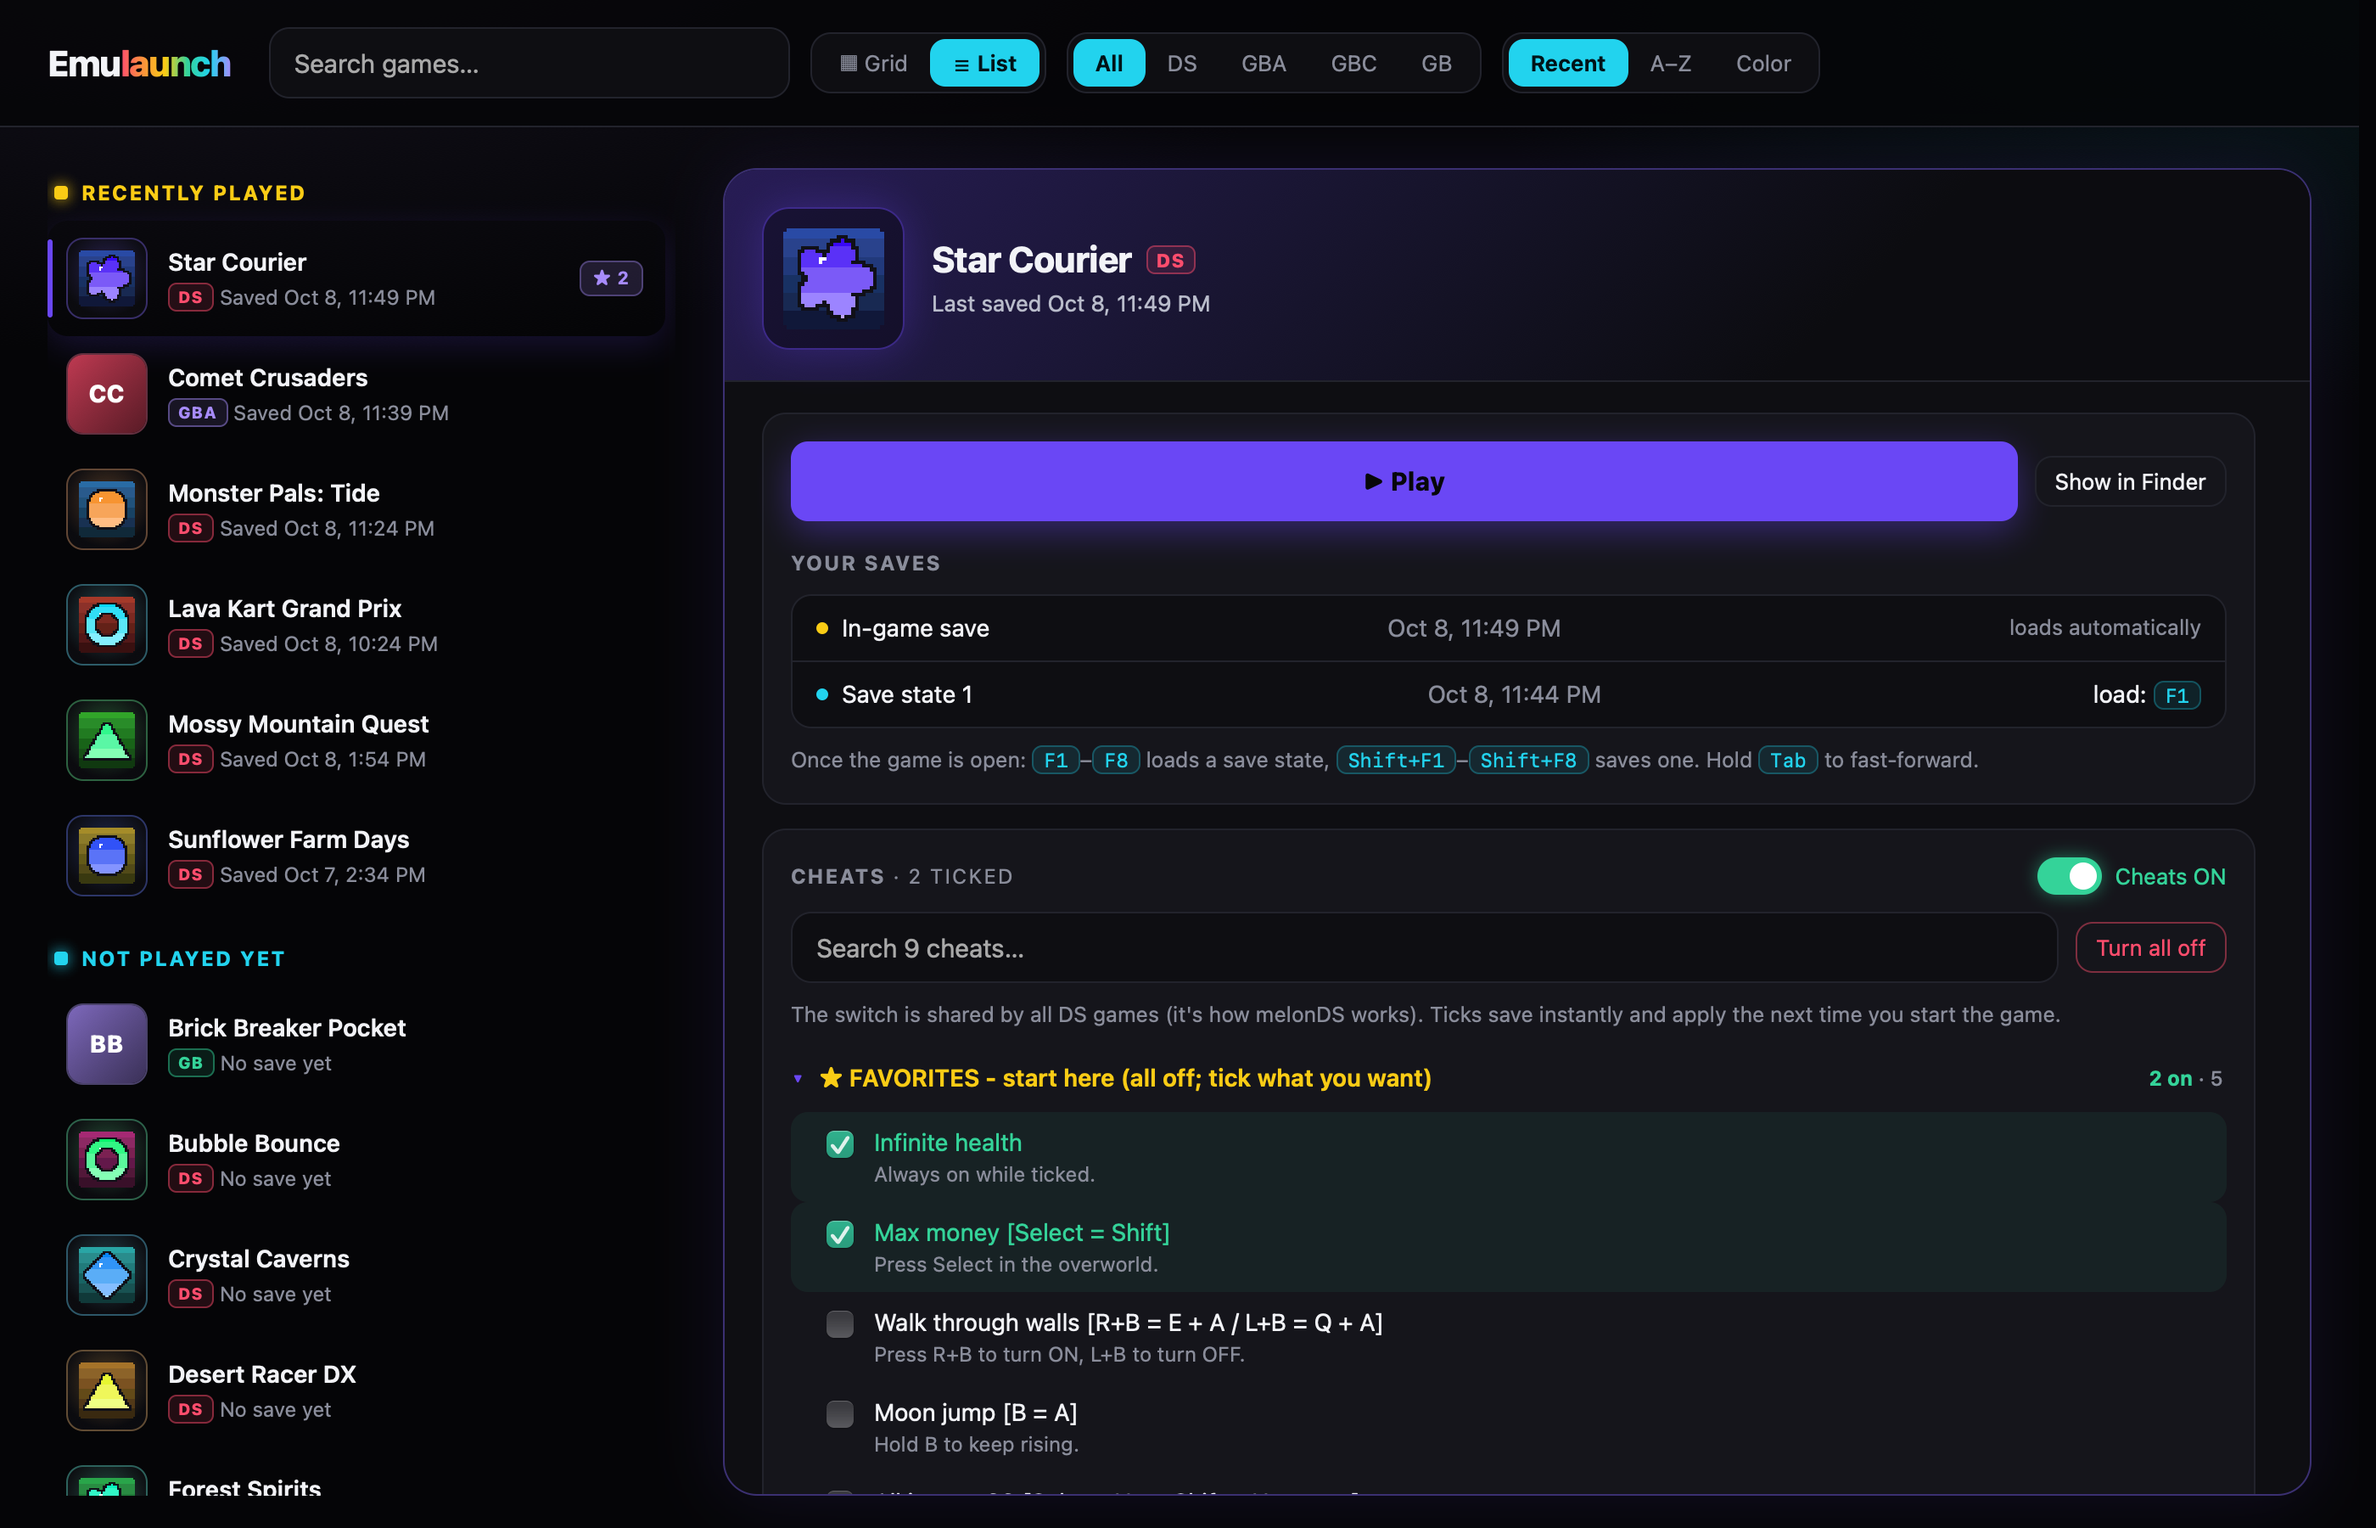
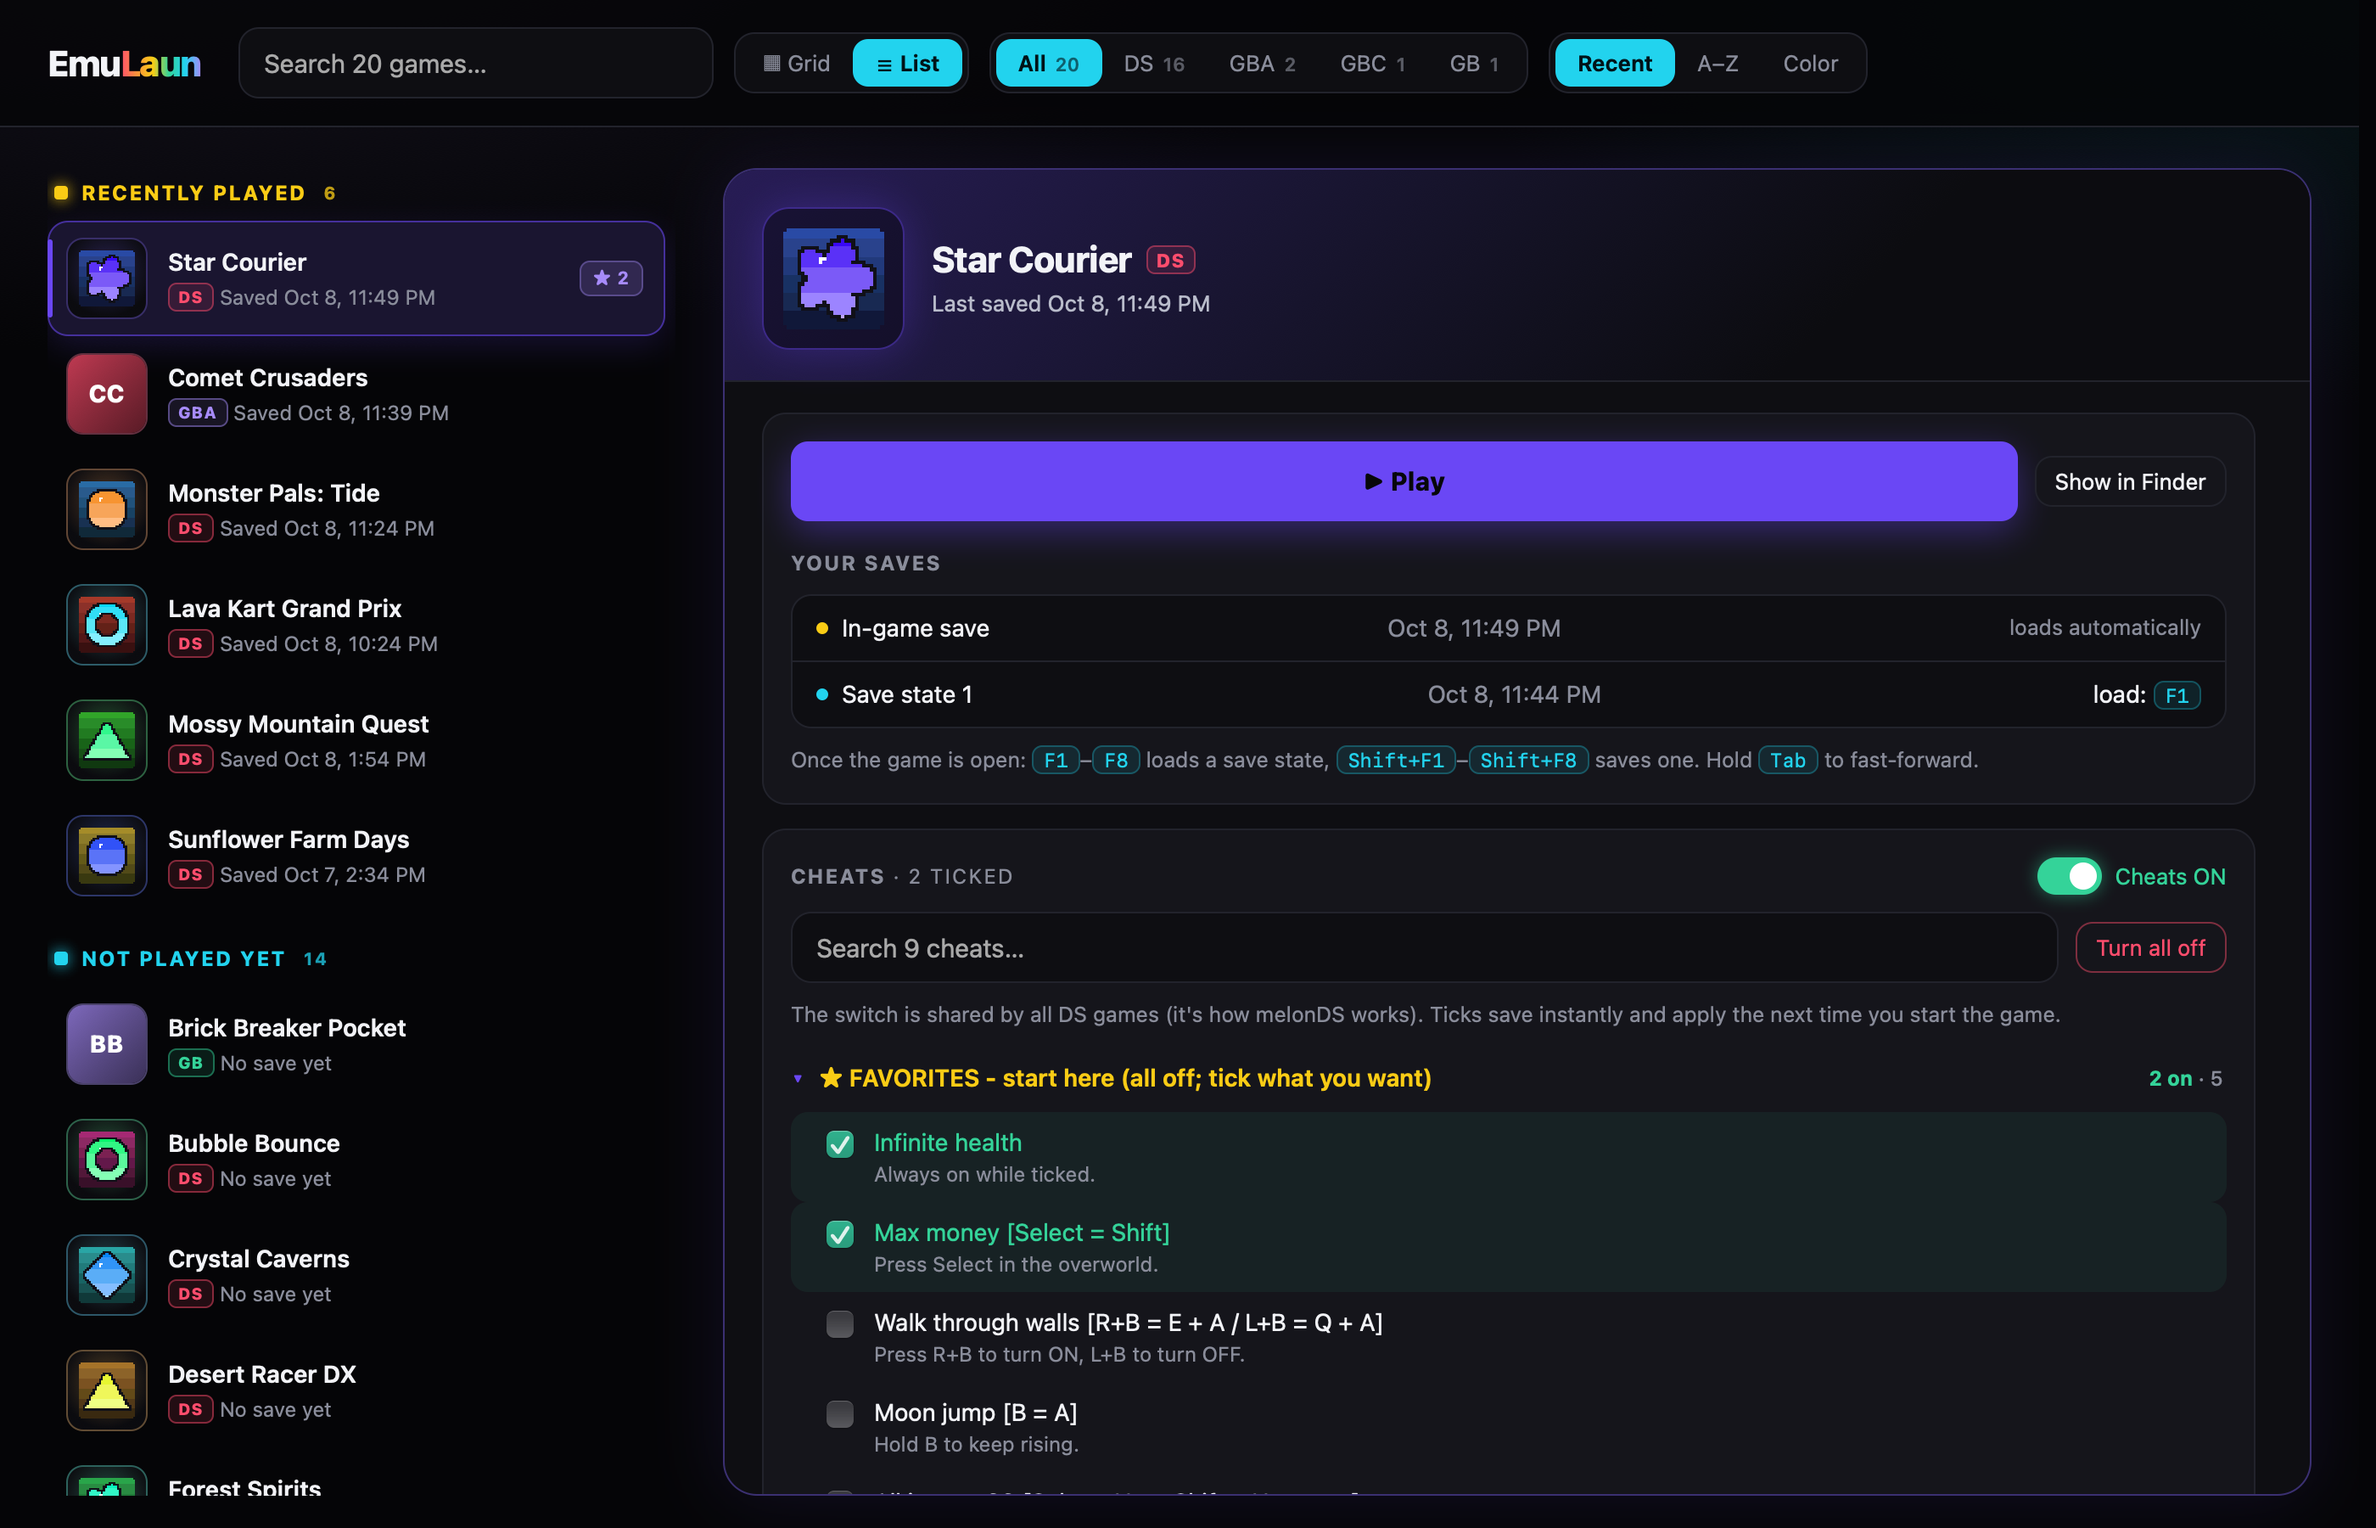
Retake README screenshots as EmuLaun; disable transitions in snap tool
Offscreen WebKit windows count as hidden, which pauses CSS transitions
and left the view toggle half-painted in snapshots.

Changed region(s): [[0.0, 0.1244, 0.2796, 0.2178], [0.3107, 0.0, 0.7768, 0.0622], [0.0621, 0.0311, 0.1864, 0.0622]]

diff --git a/docs/snap.swift b/docs/snap.swift
@@ -14,7 +14,13 @@ class Snapper: NSObject, WKNavigationDelegate {
     let web: WKWebView
     let window: NSWindow
     init(_ size: NSSize) {
-        web = WKWebView(frame: NSRect(origin: .zero, size: size), configuration: WKWebViewConfiguration())
+        let cfg = WKWebViewConfiguration()
+        // offscreen windows count as hidden, which pauses CSS transitions mid-way; turn them off
+        let css = "*,*::before,*::after{transition:none!important;animation:none!important}"
+        cfg.userContentController.addUserScript(WKUserScript(
+            source: "document.documentElement.appendChild(Object.assign(document.createElement('style'),{textContent:'\(css)'}))",
+            injectionTime: .atDocumentEnd, forMainFrameOnly: true))
+        web = WKWebView(frame: NSRect(origin: .zero, size: size), configuration: cfg)
         window = NSWindow(contentRect: NSRect(origin: .zero, size: size), styleMask: [.borderless], backing: .buffered, defer: false)
         super.init()
         window.contentView = web
